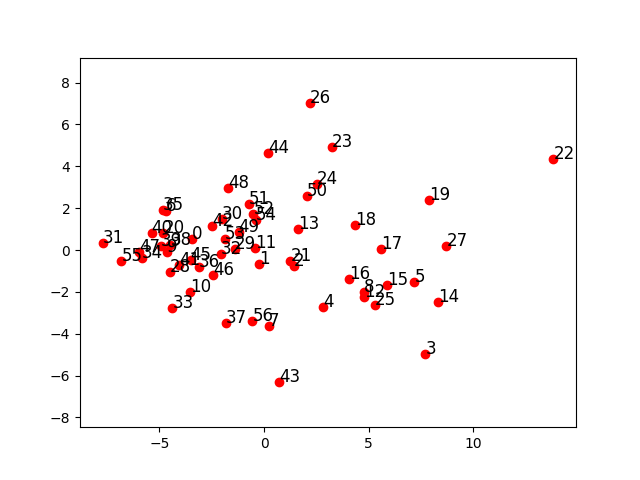
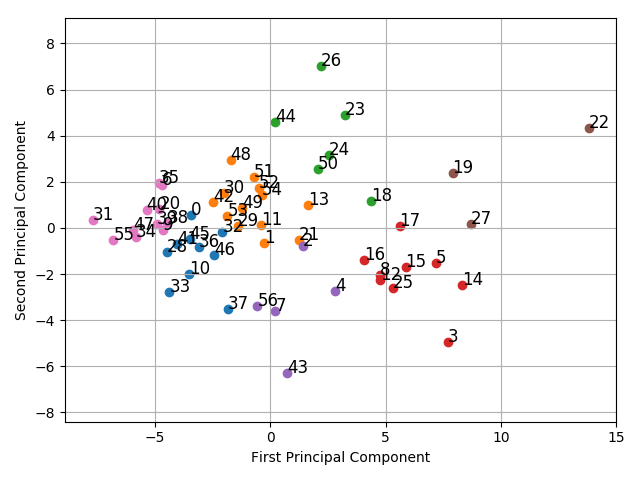
part 2 implemented

diff --git a/plot.py b/plot.py
@@ -4,20 +4,34 @@ import matplotlib.pyplot as mp
 
 def var_plot(S,k,see):
     from tools import percent_var
+    # get percent of variance for k singular values
     PV = percent_var(S)
     d = range(len(S)+1)[1:] 
+
+    # prepare to plot
     fig = mp.figure()
 
+    # scree graph
     ax = fig.add_subplot(211)
-    ax.axvline(x=k)
-    ax.plot(d,S/max(S))
-    ax.scatter(d,S/max(S))
+    ax.set(title='Scree Graph',xlabel='Singular Vector',ylabel='Singular Value')
+    ax.axvline(x=k) # vertical line at choice of k
+    ax.plot(d,S)
+    ax.scatter(d,S,marker='+')
+    mp.text(k+0.5, (max(S)+min(S))/2, 'k = ' + str(k))
 
+    # proportion of variance vs k 
     ax = fig.add_subplot(212)
+    ax.set(title='Proportion of Variance',xlabel='First Singular Vectors',ylabel='Prop. of Var.')
     ax.axvline(x=k)
     ax.plot(d,PV)
-    ax.scatter(d,PV)
+    ax.scatter(d,PV,marker='+')
+    mp.text(k+0.5, (max(PV)+min(PV))/2, 'k = ' + str(k))
 
+    # post plot
+    fig.subplots_adjust(hspace=0.5)
+    fig.tight_layout()
+
+    # save fig and view
     figname = 'varplot.png'
     mp.savefig(figname)
     if see:
@@ -25,21 +39,60 @@ def var_plot(S,k,see):
 #     mp.show()
 
 def pc_plot(S,U,see):
+    # get 1st and 2nd principal components
     W1 = S[0]*U[:,0]
     W2 = S[1]*U[:,1]
+    ninst = len(W1)
 #     W1 = U[:,0]
 #     W2 = U[:,1]
-    fig = mp.figure()
-    size = U.shape
 
-    ax = fig.add_subplot(111)
-    ax.scatter(W1,W2, color='r')
-    for N in range(size[1]):
-        mp.text(W1[N], W2[N], str(N), fontsize=12)
-    ax.axis('equal')
+    # prepare to plot
+    fig = mp.figure() # make fig
+    ax = fig.add_subplot(111) # make axes
+    mp.grid(True)
+    ax.axis('equal') # equally proportioned axes
+    ax.set(xlabel='First Principal Component',ylabel='Second Principal Component')
 
-    figname = 'pcplot.png'
+    # plotting
+    ax.scatter(W1,W2, color='r') # plot points in red
+    for n in range(ninst): # label points by school's number in list
+        mp.text(W1[n], W2[n], str(n), fontsize=12)
+
+    # post plot
+    fig.tight_layout()
+
+    # save fig and view 
+    figname = 'pcplot.png' 
     mp.savefig(figname)
-    if see:
-        os.system('see ' + figname)
+    if see: # open png in preview
+        os.system('see ' + figname) # see not included
+#     mp.show()
+
+def pcc_plot(S,U,C,see):
+    # get 1st and 2nd principal components
+
+    # prepare to plot
+    fig = mp.figure() # make fig
+    ax = fig.add_subplot(111) # make axes
+    mp.grid(True)
+    ax.axis('equal') # equally proportioned axes
+    ax.set(xlabel='First Principal Component',ylabel='Second Principal Component')
+
+    key = C.keys()
+    for tooth in key:
+        W1 = S[0]*U[C[tooth],0]
+        W2 = S[1]*U[C[tooth],1]
+        col = 'C' + tooth
+        ax.scatter(W1,W2,color=col)
+        for idx,n in enumerate(C[tooth]):
+            mp.text(W1[idx], W2[idx], str(n), fontsize=12)
+
+    # post plot
+    fig.tight_layout()
+
+    # save fig and view 
+    figname = 'pcplot.png' 
+    mp.savefig(figname)
+    if see: # open png in preview
+        os.system('see ' + figname) # see not included
 #     mp.show()

diff --git a/implement.py b/implement.py
@@ -1,31 +1,74 @@
-def buildX(db):
-    import numpy as np
-    from explore import key
-    X = np.asmatrix(db[key[0]]).T
-    for tooth in key[1:]:
-        col = np.asmatrix(db[tooth]).T
-        X = np.hstack((X,col))
-    return X
-
+#### PCA Stuff ####
 def svd(db):
+    from tools import buildX
     from scipy import linalg as la
     X = buildX(db)
     [U,S,Vh] = la.svd(X)
     return U,S,Vh
 
-def diag(S):
-    import numpy as np
-    rank = len(S)
-    Sig = [[0 for x in range(rank)] for y in range(rank)]
-    for i in range(rank):
-        Sig[i][i] = S[i]
-    return np.asmatrix(Sig)
-
 def reduct(U,S,Vh,k):
     import numpy as np
+    from tools import diag
     Sk  = S[0:k]
     Uk  = U[:,0:k]
     Vhk = Vh[0:k,:]
     Sig = diag(Sk)
     X = Uk*Sig*Vhk
     return X
+
+#### Clustering ####
+def kmeans(k,X):
+    import numpy as np
+    key = list(map(str,range(k)))
+#     Mmean = np.zeros((k,X.shape[1]))
+    iters = 1
+    for it in range(iters):
+#         M = init_means(k,X) # randomly assign clusters to k instances
+        M = X[list(range(k)),:]
+        C = update_cluster(key,X,M) # assign clusters to nearest neighbors
+        Cold = 0 # condition to break while
+        i = 0
+        while Cold != C: # breaks if clusters don't change
+            Cold = C.copy()
+            M = update_means(key,X,M,C) # recalculates cluster means
+            C = update_cluster(key,X,M)
+            i += 1
+#         Mmean = Mmean + M
+#     Mmean = Mmean/iters
+#     C = update_cluster(key,X,Mmean)
+    return C,i
+
+def init_means(k,X):
+    import random
+    import numpy as np
+    ninst = len(X[:,0])
+    randidx = list(range(ninst))
+    random.shuffle(randidx)
+    M = X[randidx[0],:]
+    for idx in randidx[1:k]:
+        M = np.vstack((M,X[idx,:]))
+    return M
+
+def update_cluster(key,X,M):
+    import numpy as np
+    C = {}
+    for tooth in key:
+        C[tooth] = []
+
+    for n,row in enumerate(X): # for all instances
+        min_dist = float('inf')
+        for m,row_mean in enumerate(M): # check against mean of every cluster
+            dist = np.sqrt(np.sum(np.square(row - row_mean))) # euclidean norm
+            if dist < min_dist:
+                min_dist = dist
+                clust = m
+        C[str(clust)].append(n)
+    return C
+
+def update_means(key,X,M,C):
+    import numpy as np
+    nfeat = M.shape[1]
+    for c,tooth in enumerate(key):
+        for n in range(nfeat):
+            M[c,n] = np.mean(X[C[tooth],n])
+    return M

diff --git a/main.py b/main.py
@@ -1,9 +1,9 @@
 #!/usr/bin/python
 from explore import key, db
 from prepare import znorm
-from implement import buildX, svd, reduct
-from tools import get_k
-from plot import var_plot, pc_plot
+from implement import svd, reduct, kmeans
+from tools import buildX, get_k
+from plot import var_plot, pc_plot, pcc_plot
 
 ####### PART 1: Principal Component Analysis ####################
 # preparation
@@ -18,13 +18,25 @@ if norm:
 [U, S, Vh] = svd(db) # perform SVD
 k = get_k(S, pvar) # find k singular values that satisfies pvar
 
-# reducing dimensions
-X  = buildX(db) # create data matrix
-Xk = reduct(U, S, Vh, k) # reduced order matrix
-
 # plotting
 var_plot(S,k,see) # scree, var vs eigens
 pc_plot(S,U,see) # first and second pc's scaled by sigma
 
 ####### PART 2: k-Means Clustering ##############################
+kc = 7 # number of clusters
+see = bools[0]
 
+## Full dataset
+X = buildX(db)
+[CF,iF] = kmeans(kc,X)
+pcc_plot(S,U,CF,see)
+
+## First k singular vectors
+Xk = reduct(U, S, Vh, k) # reduced order matrix
+[Ck,ik] = kmeans(kc,Xk)
+pcc_plot(S,U,Ck,see)
+
+## First 2 singular vectors
+X2 = reduct(U, S, Vh, 2) # reduced order matrix
+[C2,i2] = kmeans(kc,X2)
+pcc_plot(S,U,C2,see)

diff --git a/tools.py b/tools.py
@@ -1,3 +1,13 @@
+# build a matrix from dict
+def buildX(db):
+    import numpy as np
+    from explore import key
+    X = np.asmatrix(db[key[0]]).T
+    for tooth in key[1:]:
+        col = np.asmatrix(db[tooth]).T
+        X = np.hstack((X,col))
+    return X
+
 # returns array containing percent variance as where index = #eigenvalues
 def percent_var(S):
     import numpy as np
@@ -11,9 +21,19 @@ def percent_var(S):
     PV = PV/sumS
     return PV
 
+# get k that satisfies proportion of variance
 def get_k(S, pvar):
     PV = percent_var(S)
     for k,var in enumerate(PV):
         if var >= pvar:
             break
     return k+1
+
+# creates diagonal matrix from array
+def diag(S):
+    import numpy as np
+    rank = len(S)
+    Sig = [[0 for x in range(rank)] for y in range(rank)]
+    for i in range(rank):
+        Sig[i][i] = S[i]
+    return np.asmatrix(Sig)

diff --git a/README.md b/README.md
@@ -1,1 +1,1 @@
-readme pending
+*IMPORTANT: set see to False in main.py, b/c it calls an OS command to view the .png that isn't included in this package
